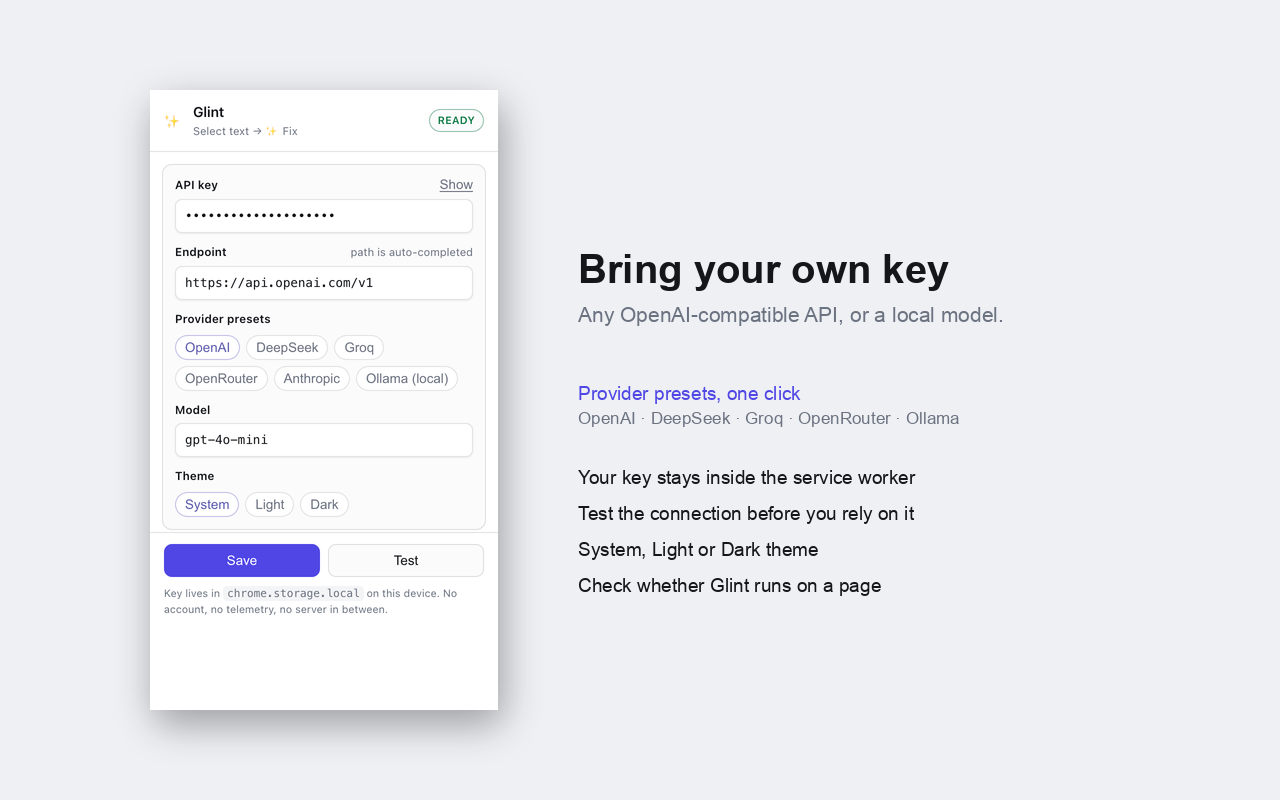
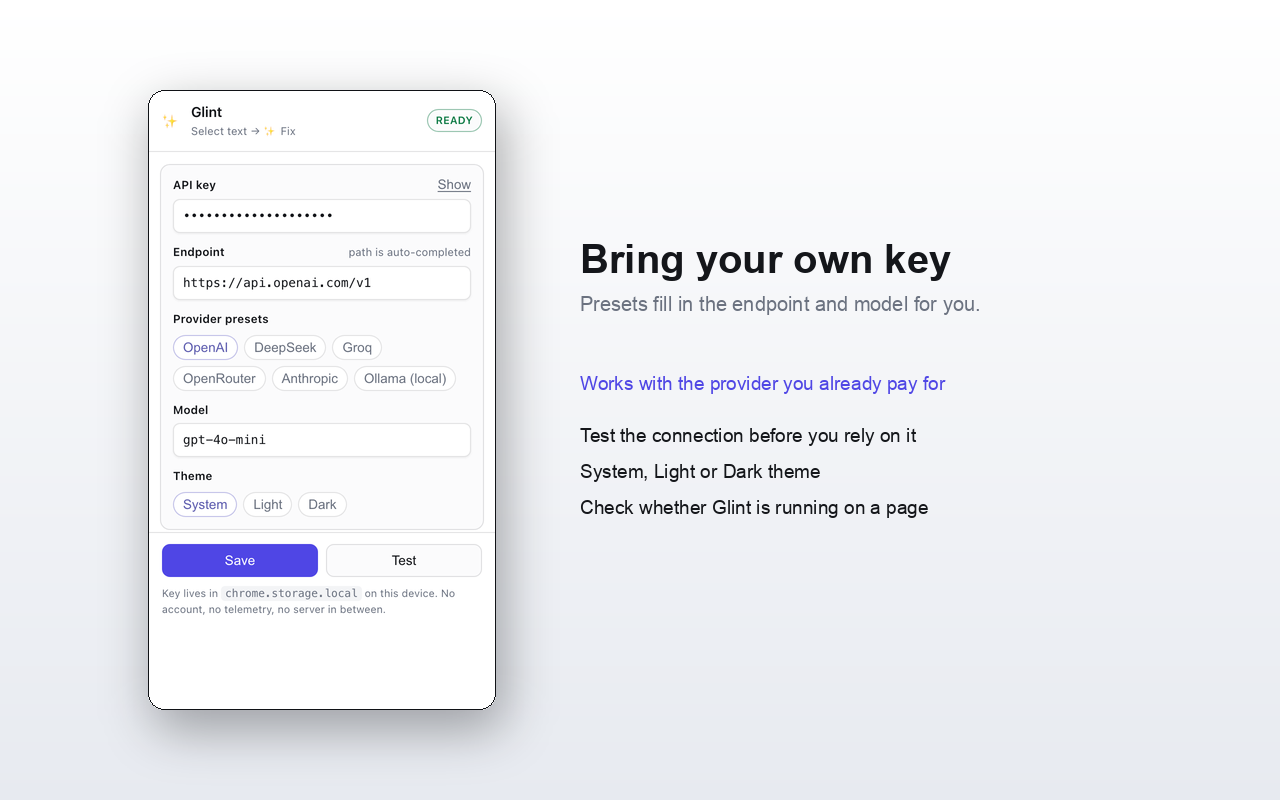
Rewrite the store description to clear the Yellow Argon rejection
The store flagged the description for exaggerated keywords and quoted the list
of AI providers verbatim. Vendor enumerations in metadata read as keyword
stuffing, so they are gone from the description and from the two screenshot
captions that repeated the same list.

The copy is also humanised now: prose instead of bullet lists, no em dashes, no
all-caps headers, and sentence lengths that vary. Detected tells went from 3 em
dashes, 3 all-caps headers, 3 bullet runs and 7 brand names to zero of each.

tools/make-store-panel.py: --panel-scale, because the capture scale belongs to
the input file rather than the theme.

diff --git a/tools/make-store-panel.py b/tools/make-store-panel.py
@@ -42,7 +42,6 @@ THEMES = {
         "accent": (140, 140, 255),
         "hairline": (255, 255, 255, 26),
         "shadow": (0, 0, 0, 150),
-        "panel_scale": 0.5,  # captures are usually 2x
     },
     "light": {
         "gradient": ((255, 255, 255), (231, 234, 240)),
@@ -51,7 +50,6 @@ THEMES = {
         "accent": (79, 70, 229),
         "hairline": (16, 18, 22, 24),
         "shadow": (16, 18, 22, 90),
-        "panel_scale": 0.5,
     },
 }
 
@@ -87,9 +85,11 @@ def build(args: argparse.Namespace) -> Image.Image:
     canvas = gradient((W, H), *theme["gradient"]).convert("RGBA")
 
     source = Image.open(args.input).convert("RGBA")
-    panel = source.resize(
-        (round(source.width * theme["panel_scale"]), round(source.height * theme["panel_scale"])),
-        Image.LANCZOS,
+    scale = args.panel_scale
+    panel = (
+        source
+        if scale == 1.0
+        else source.resize((round(source.width * scale), round(source.height * scale)), Image.LANCZOS)
     )
     radius = 16
     panel = rounded_panel(panel, radius)
@@ -170,6 +170,12 @@ def main() -> None:
     parser.add_argument("--output", required=True, help="PNG to write")
     parser.add_argument("--size", default="1280x800", help="1280x800 (preferred) or 640x400")
     parser.add_argument("--theme", choices=sorted(THEMES), default="dark")
+    parser.add_argument(
+        "--panel-scale",
+        type=float,
+        default=0.5,
+        help="scale applied to the capture: 0.5 for a 2x screenshot (default), 1.0 if already 1x",
+    )
     parser.add_argument("--title", required=True)
     parser.add_argument("--lead", default="")
     parser.add_argument("--accent", action="append", default=[], help="repeatable")

diff --git a/docs/CHROME_WEB_STORE.md b/docs/CHROME_WEB_STORE.md
@@ -65,76 +65,40 @@ Select text or just type: a ✨ appears, one click rewrites it in place. Bring y
 **Category:** Productivity → Tools
 **Language:** English
 
-**Detailed description**
+**Detailed description** (2931 characters)
+
+**Do not list provider names here.** An earlier version of this description opened with a list of AI
+providers, and the store rejected it with violation code **Yellow Argon** ("using exaggerated
+keywords in the item description"). Naming a string of brands in metadata reads as keyword
+stuffing, however factually true it is. Keep the description free of vendor names; the extension's
+own settings screen is the right place to show which providers it supports, and a screenshot of
+that screen carries the same information without the metadata risk.
+
+The text below is written in a plain human voice on purpose: prose rather than bullet lists, no em
+dashes, no all-caps section headers, varied sentence length.
 
 ```
-Glint is a minimalist AI writing assistant for Chrome. It fixes the text you are
-already writing — in the field you are already typing in.
+Glint rewrites the text you are already typing, in the field you are already in.
 
-WHAT IT DOES
+There are two ways to use it. Highlight a sentence, and a small "Fix" button appears next to it. Click, and that one sentence comes back with the spelling and grammar corrected and the wording smoothed out. Nothing around it changes.
 
-• Highlight a sentence and a small "✨ Fix" button appears beside it. One click
-  rewrites that text where it stands: spelling and grammar corrected, wording
-  made more fluent, meaning untouched.
+The other way needs no highlighting at all. Click into any text box you have written in, and a compact icon waits in the corner of the field. One click cleans up everything inside it, whether that is a search box holding five words or a textarea holding five paragraphs.
 
-• Or select nothing at all. Type into any text field and a compact ✨ icon waits
-  in the field's top-right corner. Click it and everything in that field is
-  polished in a single pass — a one-line search box or a full paragraph.
+Either way the new text lands where the old text was. Your cursor stays put, focus stays in the field, and Ctrl+Z undoes it exactly like any other edit. Glint edits the field itself instead of opening a window of its own, so the page keeps control of its own content. That detail is why it works on sites built with modern frameworks, including the inputs that only accept properly dispatched input events.
 
-• The result lands exactly where you were typing. Focus stays in the field, the
-  caret stays where it was, and Ctrl/Cmd+Z undoes the change like any other edit,
-  because Glint edits the field itself instead of opening a window of its own.
+Glint is not a service. There is no account to create and no subscription to cancel, because there is no server in the middle. You paste an API key from an AI provider you already pay for, and your browser talks to that provider directly. Prefer to keep everything on your own machine? Point Glint at a local model instead.
 
-• It works in search boxes, comment boxes, contact forms, textareas and
-  rich-text editors, including the React and Vue apps whose inputs only accept
-  properly dispatched input events.
+It keeps very little. Your API key, the API address, the model name and the mode you picked are stored in your own browser profile, and that is the whole list. No analytics, no telemetry, no advertising, and nothing sent to the developer. Your key is read only inside the extension's service worker, so the pages you visit never get a copy of it.
 
-WHY INSTALL IT
+How the rewrite reads is up to you. Fix grammar and fluency is the default. The other modes make text shorter, more professional or friendlier, and you can write your own instruction instead. If you like tuning that sort of thing, the sampling settings and the extra request body field are there too.
 
-1. It stays out of your way. No sidebar, no dashboard, no panel covering the
-   page. A small button appears where you are writing and vanishes when you stop.
+The button and the settings panel follow your system's light or dark setting and change the moment you switch. You can pin one or the other if you prefer.
 
-2. There is no account and no subscription. You do not sign up for anything, and
-   there is no Glint server in the middle: your browser talks straight to the AI
-   provider you chose.
+The extension is Manifest V3, written in plain JavaScript with no dependencies and no build step. There is no remote code, so every line that runs is a line you installed, and the source is public.
 
-3. Bring your own key. Glint works with OpenAI, DeepSeek, Groq, OpenRouter,
-   Anthropic, or a model running locally through Ollama or LM Studio. If you
-   already pay for API access, you simply use it — no second bill, no per-seat
-   pricing, no free-tier limits imposed by a middleman.
+Setup takes about a minute. Install it, click the toolbar icon, paste an API key, then press Save and Test. Test makes one real request, so you know the setup works before you rely on it. After that, go to any site you write on, select some text, and click Fix.
 
-4. Your writing is not our business. There is no analytics, no telemetry, and
-   nothing is ever sent to the developer. Your API key is read only inside the
-   extension's service worker, so websites never get a reference to it. Glint
-   requests the smallest permission set it can work with.
-
-5. It adapts to how you write. Choose a mode — Fix grammar and fluency (default),
-   Shorten, Professional or Friendly — or write your own system prompt.
-   Temperature, max tokens and an extra request body are available when you need
-   to tune a specific provider.
-
-6. It looks right in any theme. Light and dark palettes follow your system
-   setting and repaint the moment you switch, for both the floating button and
-   the settings panel. You can also force Light or Dark for a particular site.
-
-7. It is small and auditable. Manifest V3, plain JavaScript, no dependencies, no
-   build step and no remote code — every line that runs is in the package you
-   installed, and the full source is public.
-
-GETTING STARTED
-
-1. Install Glint and click its toolbar icon.
-2. Paste an API key from your provider (the preset chips fill in the endpoint and
-   model for OpenAI, DeepSeek, Groq, OpenRouter, Anthropic or a local Ollama).
-3. Press Save, then Test, which performs one real request so you know it works.
-4. Go to any site you write on, select some text, and click ✨ Fix.
-
-WHAT GLINT DOES NOT DO
-
-It does not read pages in the background, does not collect statistics, does not
-show advertising, does not sell data, and does not upload anything until you
-click the button. It sends the text you asked it to fix to the API endpoint you
-configured — nothing else, and nowhere else.
+To be explicit about the limits: it does not read pages in the background, it does not count anything, and it does not upload a single character until you click the button. Whatever you asked it to fix goes to the address you configured, and nothing else leaves your machine.
 
 Source code and issue tracker: https://github.com/grig-teo/glint
 ```
